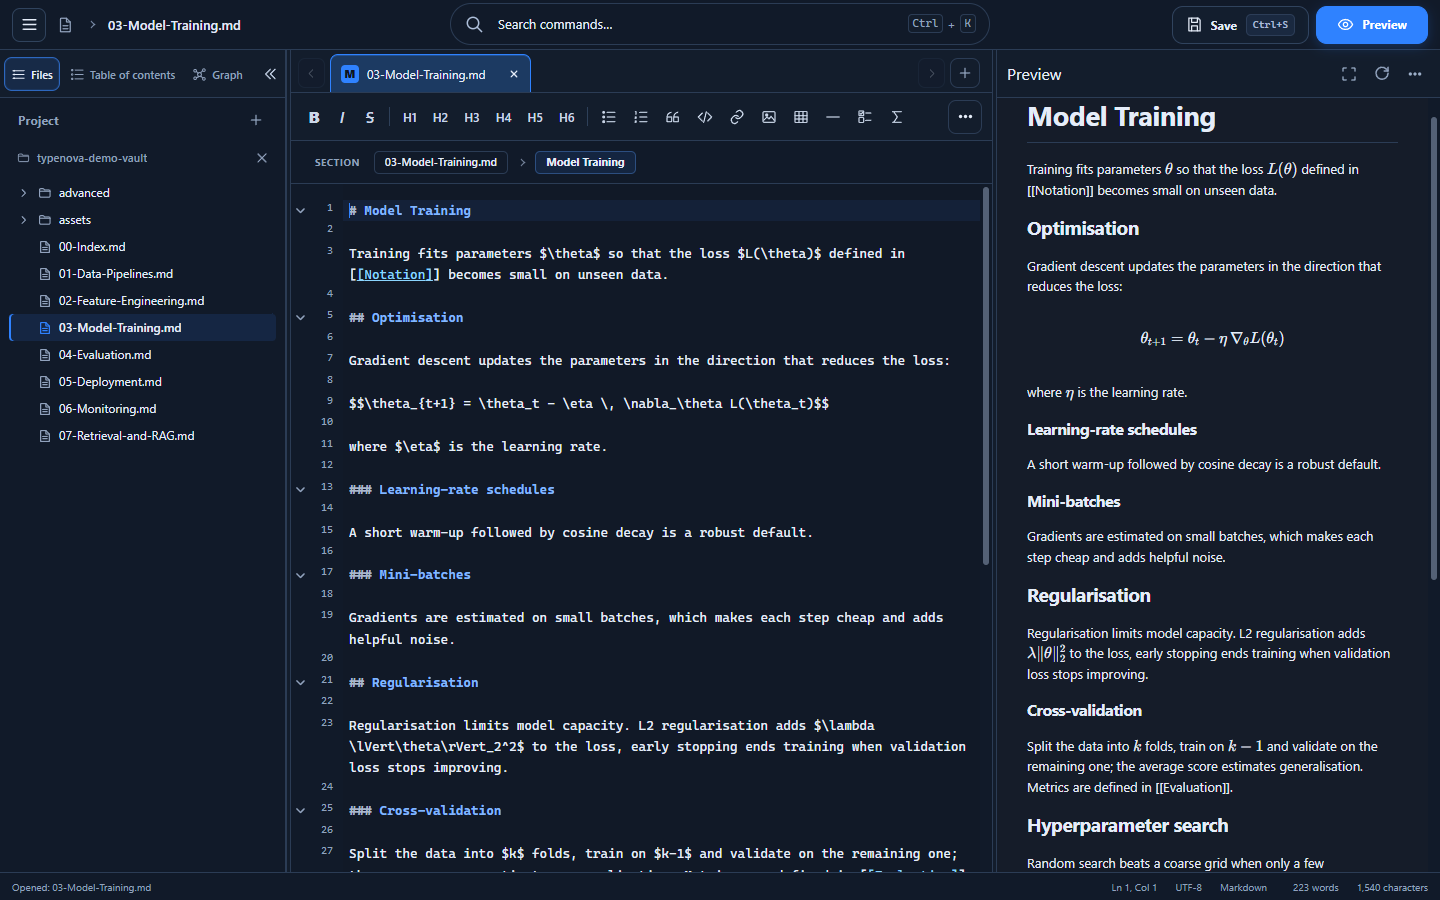
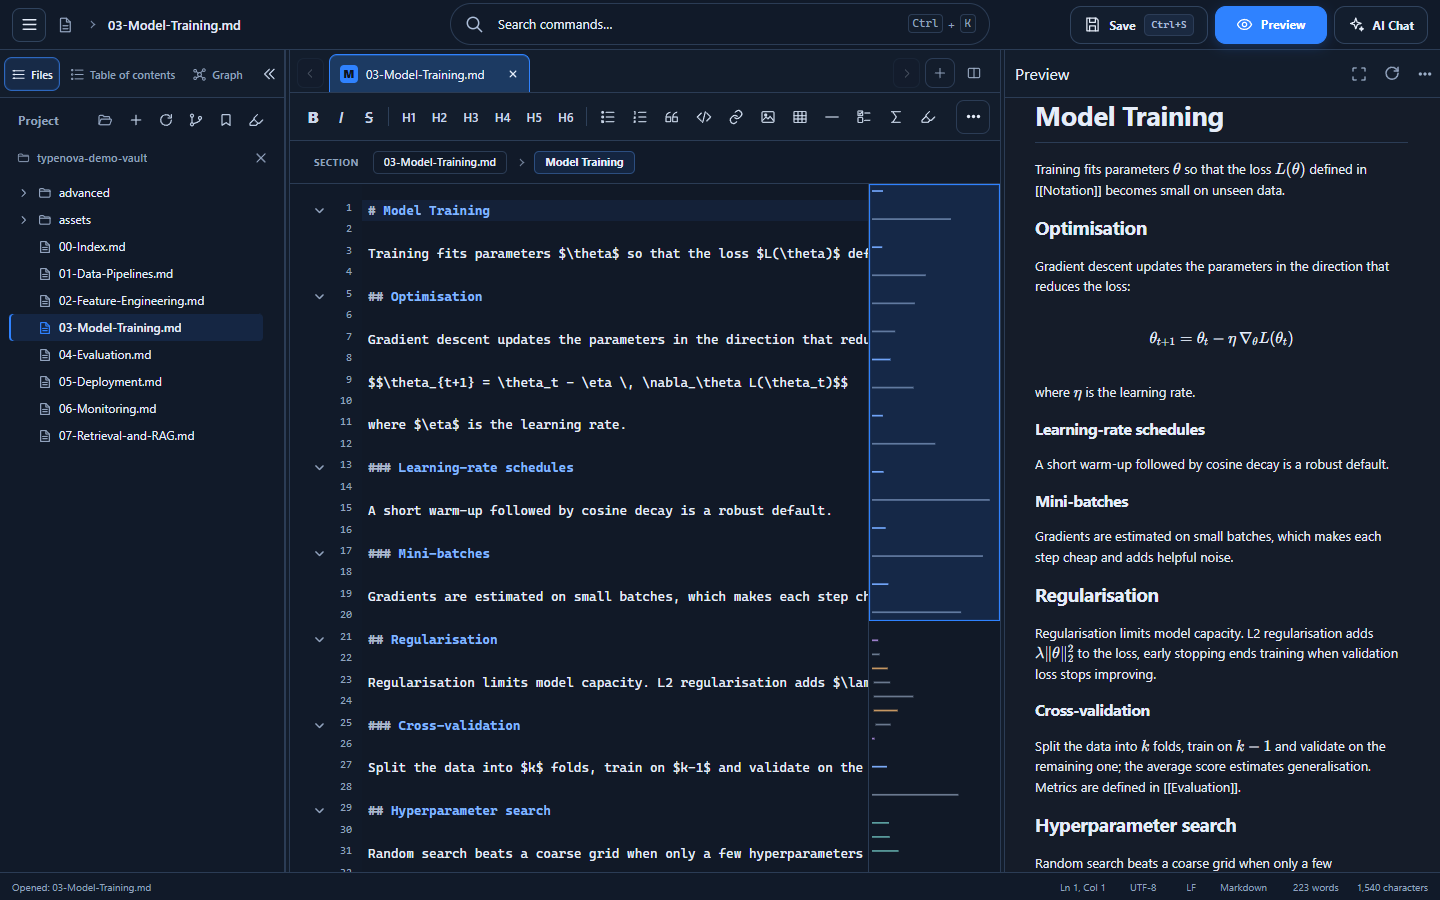
docs: update README and screenshots for groups, editors, bookmarks, highlights and AI

diff --git a/src/styles/foundation.css b/src/styles/foundation.css
@@ -1307,10 +1307,10 @@ html[data-theme="contrast"] .typenova-tooltip-shortcut { border-width: 2px; colo
   .sidebar-tabs {
     display: grid !important;
     grid-template-columns: minmax(0, 1fr) 26px;
-    grid-template-rows: 32px 32px;
+    grid-template-rows: 32px 32px 32px;
     gap: 3px !important;
     padding: 5px 6px !important;
-    min-height: 75px;
+    min-height: 107px;
     height: auto !important;
     flex: 0 0 auto !important;
     align-items: stretch !important;
@@ -1325,6 +1325,14 @@ html[data-theme="contrast"] .typenova-tooltip-shortcut { border-width: 2px; colo
   #sidebarOutlineTab {
     grid-column: 1 / 3;
     grid-row: 2;
+    width: 100% !important;
+    min-width: 0 !important;
+    justify-content: flex-start !important;
+  }
+  /* The Graph tab takes its own row like the other two; without a place of its own it was auto-placed and centred. */
+  #sidebarBrainTab {
+    grid-column: 1 / 3;
+    grid-row: 3;
     width: 100% !important;
     min-width: 0 !important;
     justify-content: flex-start !important;

diff --git a/README.md b/README.md
@@ -12,15 +12,39 @@ I write a lot of long Markdown documents: design notes, study material, project 
 
 TypeNova takes the other route. Every heading is a node. A document can be as long as it needs to be, and you can still see its structure and the links between its sections.
 
-Everything runs locally. There's no account, no sync service, no telemetry and no AI involved. Your `.md` files are the only source of truth.
+Everything runs locally. There's no account, no sync service and no telemetry. The AI assistant is optional and does nothing until you give it your own key or point it at a model on your own machine. Your `.md` files are the only source of truth.
 
 ## What you get
 
-**An editor you can live in.** CodeMirror 6 with a formatting toolbar, a breadcrumb that follows the section you're in, a minimap, visible white space, editor groups with their own tabs, side by side or stacked, and tabs you drag between them (`Ctrl+\`), Polish and English spell checking with suggestions and a personal dictionary, an optional AI assistant (your own key for Claude, OpenAI or Gemini, a local Ollama model, or any OpenAI-compatible service) for chat and rewriting a selection, find, bookmarks with notes (`Ctrl+F2`, `F2`), coloured highlights with groups and notes (`Ctrl+Shift+H`, `F4`) that can also live in a file next to your Markdown, and a command palette on `Ctrl+K`. The interface comes in English and Polish.
+**An editor you can live in.** CodeMirror 6 with a formatting toolbar, a breadcrumb that follows the section you're in, a minimap, visible white space, Polish and English spell checking with suggestions and a personal dictionary, find, and a command palette on `Ctrl+K`. The interface comes in English and Polish.
+
+**Editor groups.** Split the editor into up to four groups, side by side or stacked, and give each its own tabs (`Ctrl+\`, or **Open to the right** / **Open below** in a tab's menu). Drag a tab onto another group's tab strip to move it, onto a group to join it, or onto an edge of a group to open a new group on that side; a zone shows where it will land. The group you work in decides what the outline, the preview and the status bar show, and the layout of saved files comes back when you restart.
+
+![Three editor groups with their own tabs: one on the left, two stacked on the right](docs/screenshots/typenova-editor-groups.png)
 
 **A live preview that handles the usual hard parts.** Tables, task lists, KaTeX math, Mermaid diagrams and highlighted code blocks with a copy button. Rendering happens in web workers, so typing stays smooth in big documents. Local images work too, including ones that live outside the opened folder.
 
 ![Live preview with a Mermaid diagram and a rendered formula](docs/screenshots/typenova-live-preview.png)
+
+**Diagrams and formulas without memorising the syntax.** The Mermaid editor offers templates, a flowchart builder for nodes and links, and a live preview you can zoom, pan and click to edit an element. The formula editor has a palette of structures, matrices, accents, Greek letters, operators and relations, ready-made formulas and matrix tools, and keeps the LaTeX code and the rendered result in step in both directions. Both put their result into the document with `Ctrl+Enter`.
+
+![The Mermaid editor: code, flowchart builder and live preview](docs/screenshots/typenova-mermaid-editor.png)
+
+![The formula editor: symbol palette, LaTeX code and rendered formula](docs/screenshots/typenova-math-editor.png)
+
+**Bookmarks and highlights.** `Ctrl+F2` bookmarks a line, and each bookmark can have a name and a note; they're listed in the sidebar and `F2` / `Shift+F2` walk through them. `Ctrl+Shift+H` highlights the selected passage in one of five colours; each highlight can have a note and a group, shows in the preview too, and the panel lists them by file or by group and copies them all as Markdown. Both live in the program's settings by default and can be kept in a file next to your Markdown instead, so they travel with the document.
+
+![The bookmarks panel with named, annotated bookmarks and their markers in the editor](docs/screenshots/typenova-bookmarks.png)
+
+![The highlights panel with coloured, grouped and annotated passages, also shown in the preview](docs/screenshots/typenova-highlights.png)
+
+**An AI assistant you control.** It's off until you set it up. Pick one provider in the assistant options: Claude, OpenAI, Gemini, a model running in Ollama on your computer, or any service that speaks the OpenAI protocol (LM Studio, OpenRouter, a company gateway). **Check the connection** lists the models the service offers and says plainly what's wrong if it doesn't work. API keys are encrypted on disk (AES-256-GCM, the same way on Windows and Linux), requests are made by the Rust side so the interface never holds a key, and once saved a key is shown only by its last characters.
+
+![The assistant options: provider cards, a stored key shown by its last characters, the model and the connection check](docs/screenshots/typenova-ai-options.png)
+
+The chat (`Ctrl+Shift+M`) works on the document you have open and on your selection, and it lists exactly what is sent with each message: the document with its full path, and the selected passage with its section and lines, each with a button that takes you there. **Ask AI** (`Ctrl+Shift+A`) proposes a rewrite of the selection as a comparison and changes the text only after you accept it. The answer in the screenshot below is an illustrative example.
+
+![The AI chat next to a document, listing the file and the selected section that are sent](docs/screenshots/typenova-ai-chat.png)
 
 **More than Markdown.** Markdown (`md`, `markdown`, `mdx`, `rmd`, `qmd`, ...) gets the full treatment. About 340 text and code formats open in the editor with syntax highlighting, and unknown extensions are tried as text. Files keep their encoding (UTF-8, UTF-16, Windows-1250, ISO-8859-2 and more) and line endings (CRLF/LF) when saved; the status bar shows both. CSV/TSV files preview as tables, Mermaid files (`.mmd`) as diagrams, and **Format document** (`Shift+Alt+F`) tidies JSON, JSON Lines, YAML, XML and Markdown tables. Pictures (including TIFF), PDF, audio and video open in built-in viewers, and Word and HTML files can be imported as Markdown.
 
@@ -42,7 +66,7 @@ Select a node and the section is rendered in a side panel next to a list of rela
 
 ## Try it on the demo vault
 
-The repository ships with a small, interlinked project in [`examples/demo-vault`](examples/demo-vault): a handbook on machine-learning systems with math, diagrams, code and cross-references. It's the vault used in the screenshots above. Open that folder in TypeNova and the graph fills up straight away.
+The repository ships with a small, interlinked project in [`examples/demo-vault`](examples/demo-vault): a handbook on machine-learning systems with math, diagrams, code and cross-references. It's the vault used in the screenshots in this README. Open that folder in TypeNova and the graph fills up straight away.
 
 ## Getting started
 

diff --git a/docs/CHANGELOG.md b/docs/CHANGELOG.md
@@ -2,6 +2,16 @@
 
 All notable changes to TypeNova are recorded here, newest first. Every entry corresponds to a commit of this repository and links to it. The format follows [Keep a Changelog](https://keepachangelog.com/en/1.1.0/); versions are the ones in `package.json`.
 
+## [0.5.126] - 2026-11-10
+
+### Fixed
+
+- In a narrow sidebar the Graph tab was centred in a row of its own while Files and Table of contents were left-aligned. All three tabs now sit in their own rows, left-aligned and the same width.
+
+### Changed
+
+- The README describes the editor groups, the Mermaid and formula editors, bookmarks, highlights and the AI assistant (providers, encrypted keys, the list of what is sent), and its screenshots were retaken on the demo vault, including the new ones.
+
 ## [0.5.125] - 2026-11-10
 
 ### Added
